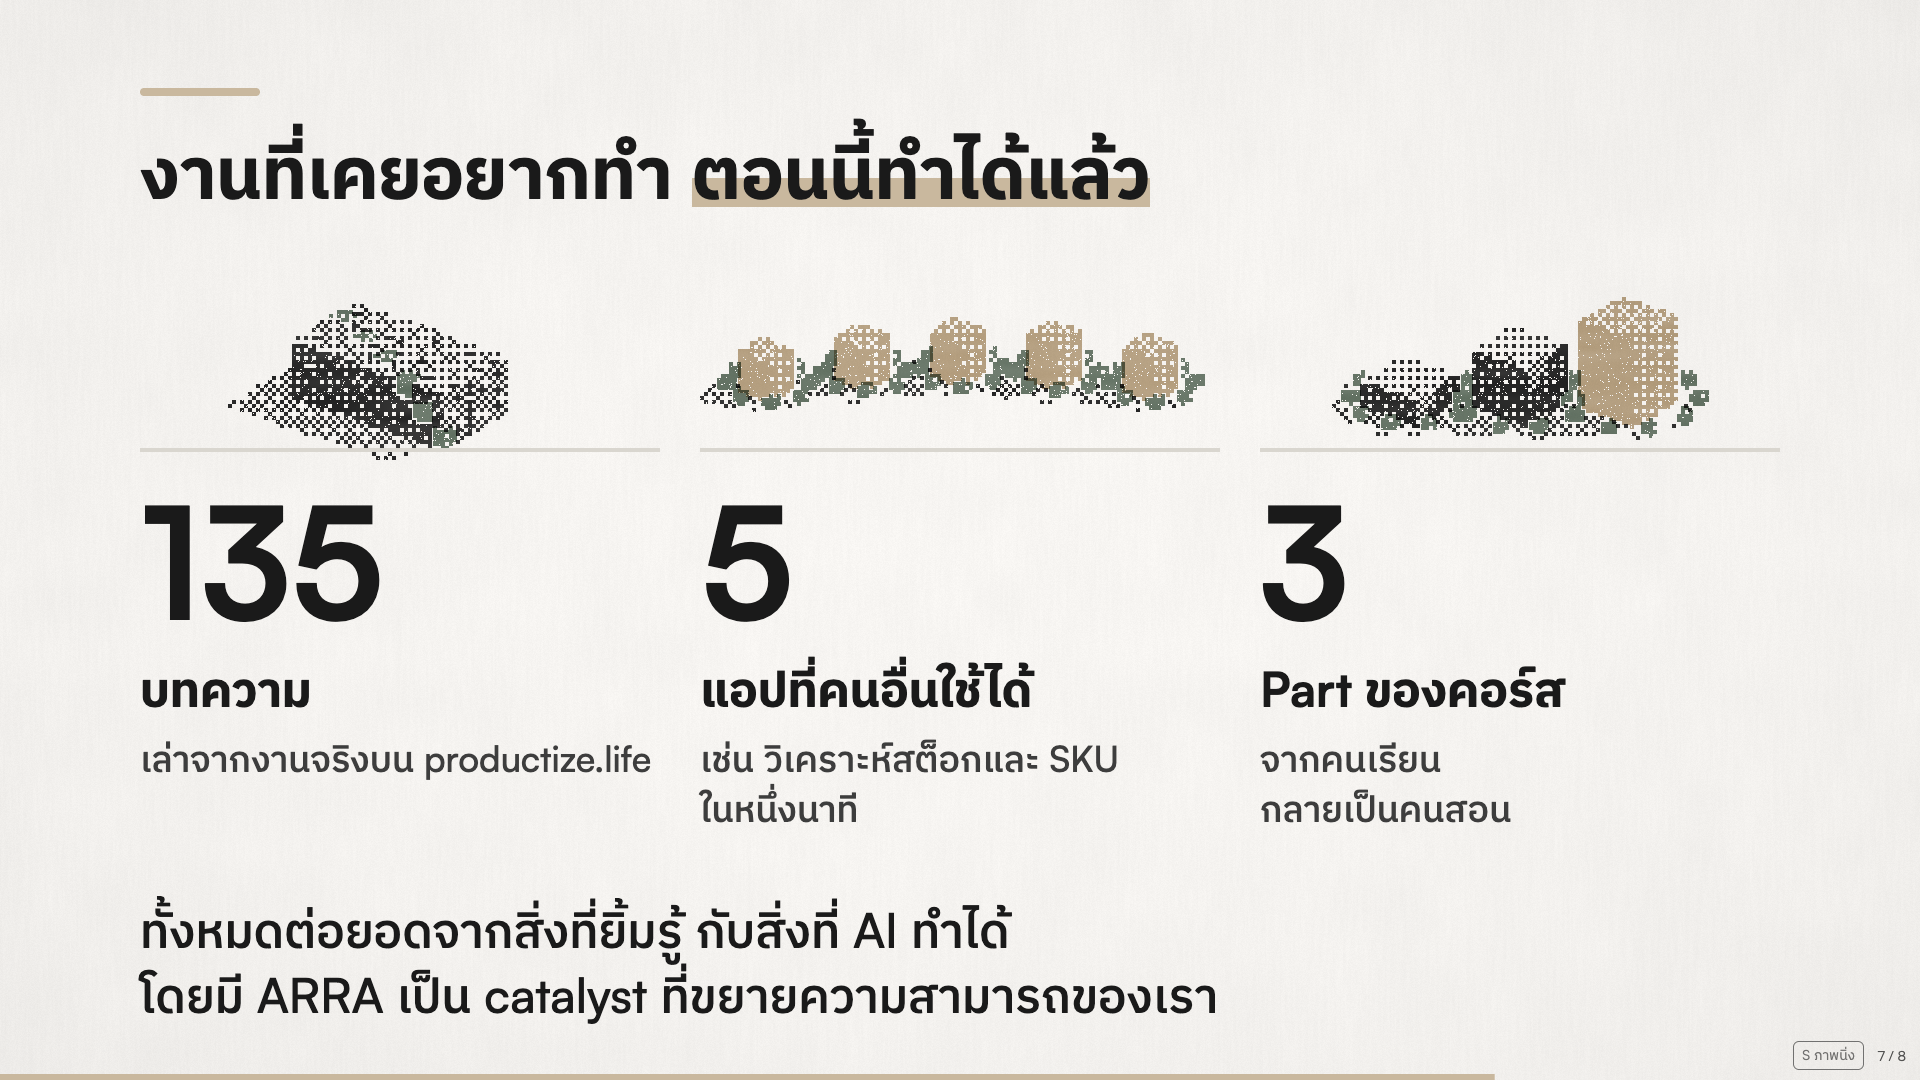
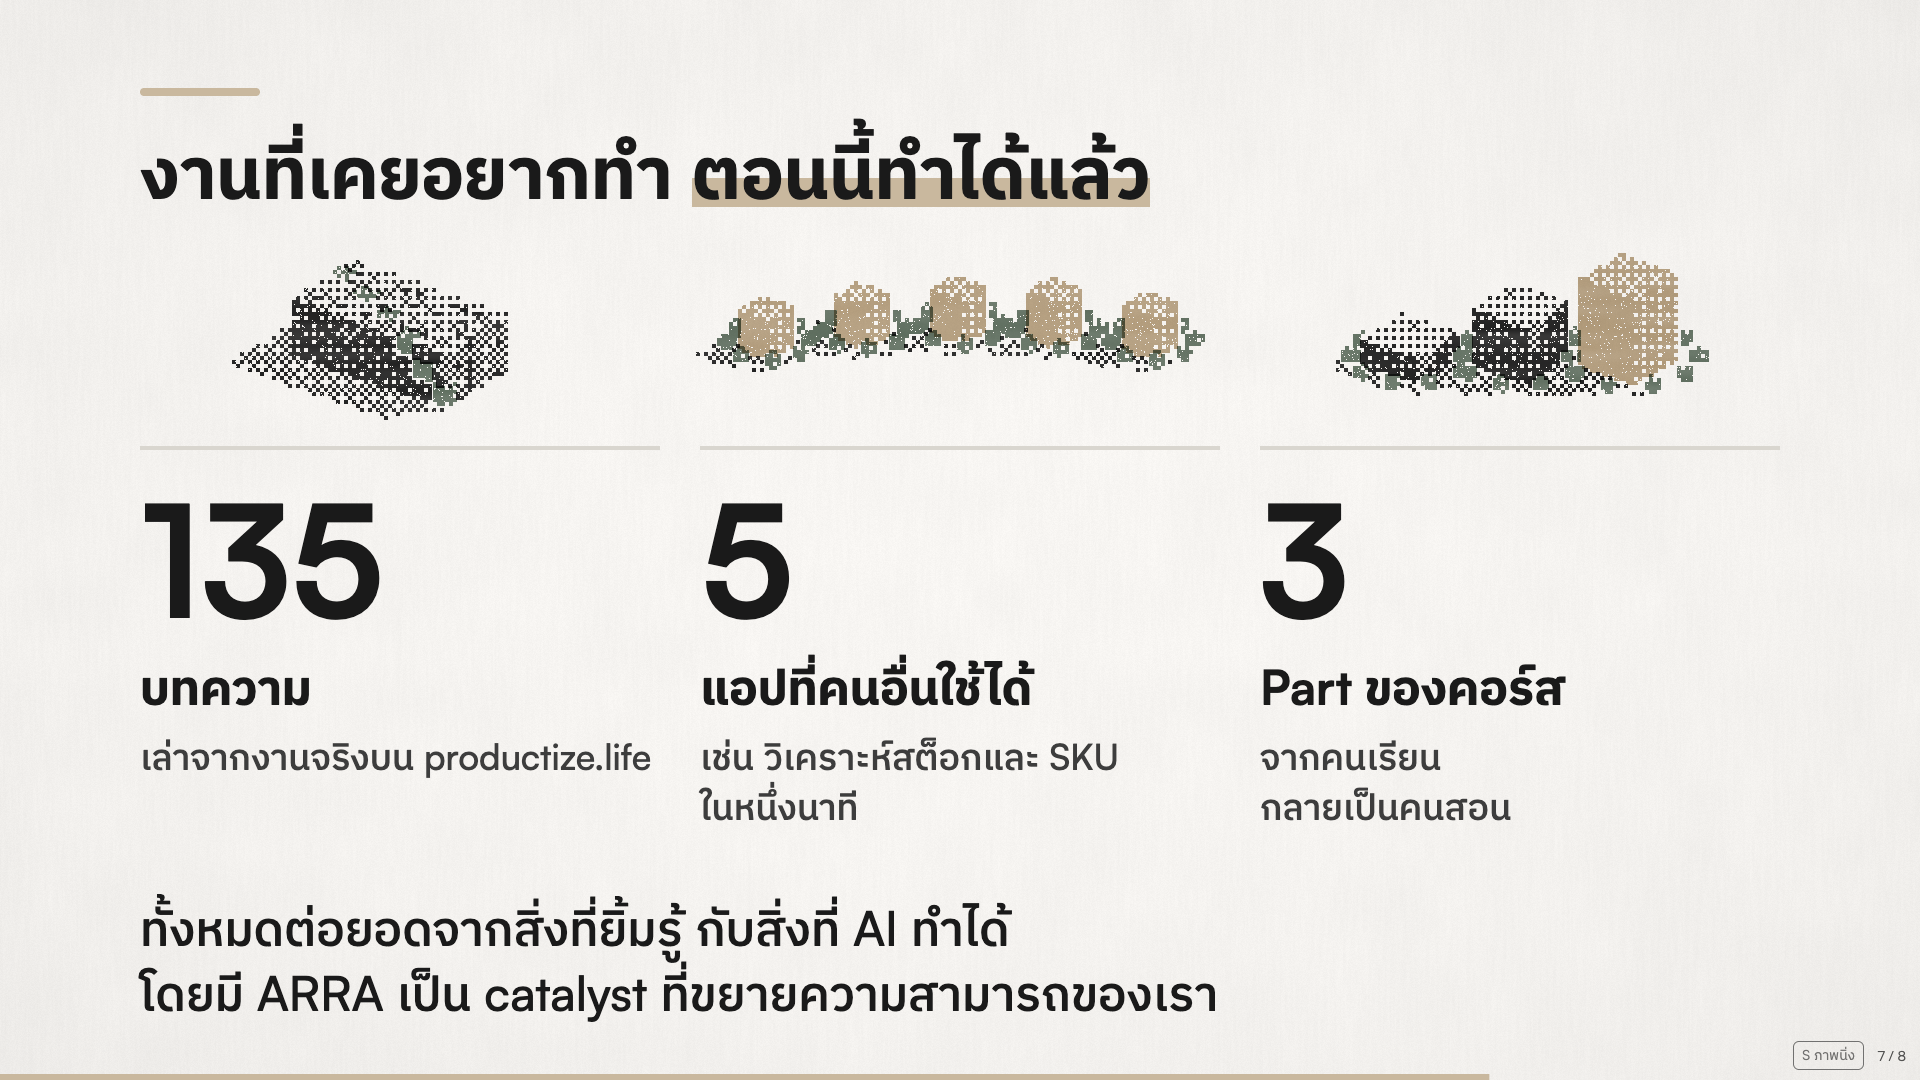
docs(slides): keep 3D formations clear of rule lines on slides 1 and 7

diff --git a/ψ/writing/slides/yim-3d/deck.html b/ψ/writing/slides/yim-3d/deck.html
@@ -150,7 +150,7 @@ h2,.heading{font-family:var(--font-display);font-size:var(--fs-heading);line-hei
 /* 1 three stages */
 .who{display:flex;flex-direction:column;gap:var(--gap-in)}
 .stages{display:grid;grid-template-columns:repeat(3,minmax(0,1fr));gap:var(--gap-col)}
-.stages .anc{height:250px}
+.stages .anc{height:230px;margin-bottom:28px}   /* 3D clear of the rule line */
 .stages .item .title{white-space:nowrap}
 
 /* 2 unlock */
@@ -211,7 +211,7 @@ svg .d-slot{fill:none;stroke:var(--color-diagram-idle)}
 
 /* 7 numbers */
 .big3{display:grid;grid-template-columns:repeat(3,minmax(0,1fr));gap:var(--gap-col)}
-.big3 .anc{height:170px}
+.big3 .anc{height:128px;margin-bottom:40px}   /* keep the 3D clear of the rule line (Yim 2026-11-01) */
 .big3 .num{font-family:var(--font-display);font-size:var(--fs-display);line-height:var(--lh-display);font-weight:700;color:var(--color-ink)}
 .big3 .title{margin-top:var(--gap-in)}
 .big3~.lead{color:var(--color-ink)}
